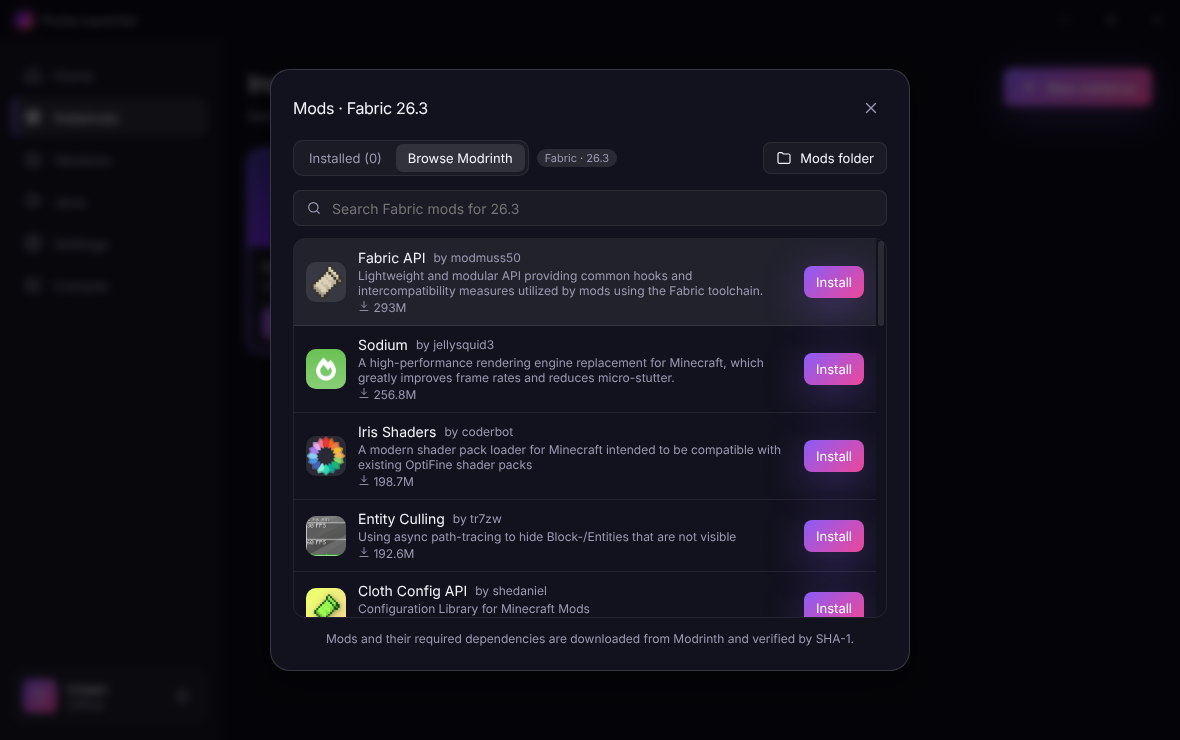
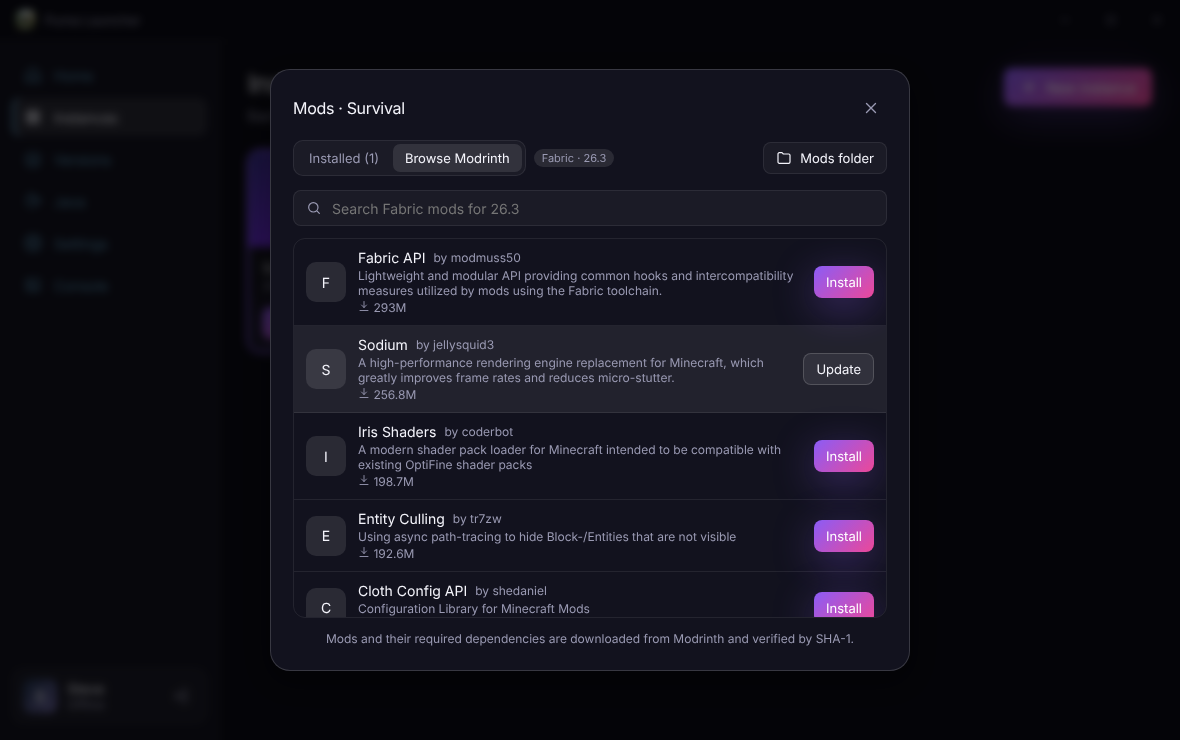
README: new screenshots, clear download steps and a getting-started guide
- Leads with a Download section: one link to the latest release and a
  table of which file to pick for each computer (with how to tell an
  Apple-chip Mac from an Intel one).
- "From download to playing": five short steps covering install
  (including the SmartScreen / Gatekeeper / Linux steps), signing in,
  creating an instance, the first launch and adding mods.
- New screenshots of the redesigned UI: welcome, home (dark, light and
  Italian), new instance, mods and Java.
- Developer material (building, publishing a release, project layout,
  adding text) moves below the user-facing sections; the release steps
  now mention bumping package.json's version, which is part of the
  installer file names.

Claude-Session: https://claude.ai/code/session_01DtT8h4zo1iGH8dAZUAaLin

diff --git a/README.md b/README.md
@@ -1,15 +1,83 @@
 # Puma Launcher
 
-A modern, open-source Minecraft: Java Edition launcher built with Electron, React and TypeScript.
-It is modelled on the most active open-source launchers, checked in October 2026:
+A modern, open-source Minecraft: Java Edition launcher for Windows, macOS and Linux. It installs any Minecraft
+version, with or without Fabric, Quilt, Forge or NeoForge, downloads the right Java for you and installs mods from
+Modrinth. Available in English and Italian.
+
+![Puma Launcher home screen](docs/screenshots/home.png)
+
+## Download
+
+**[Download the latest version](https://github.com/txtaan/Puma-Launcher-Minecraft/releases/latest)**: open the page,
+scroll down to **Assets** and pick the file for your computer.
+
+| Your computer | File to download |
+| --- | --- |
+| Windows 10 or 11 | `PumaLauncher-<version>-windows-x64-setup.exe` |
+| Mac with an Apple chip (M1 or newer) | `PumaLauncher-<version>-macos-arm64.dmg` |
+| Mac with an Intel chip | `PumaLauncher-<version>-macos-x64.dmg` |
+| Linux | `PumaLauncher-<version>-linux-x86_64.AppImage` (any distribution) or `PumaLauncher-<version>-linux-amd64.deb` (Debian, Ubuntu) |
+
+Not sure which Mac you have? Open the Apple menu → **About This Mac**: "Chip: Apple M…" means an Apple chip,
+"Processor: … Intel" means Intel.
+
+You don't need to install Java or Minecraft separately: the launcher downloads both.
+
+## From download to playing
+
+1. **Install the launcher.**
+   - **Windows:** run the `.exe` and follow the installer. If SmartScreen says "Windows protected your PC", click
+     **More info → Run anyway** (the launcher isn't code-signed yet).
+   - **macOS:** open the `.dmg` and drag **Puma Launcher** into **Applications**. If macOS says it can't verify the
+     app the first time you open it, go to **System Settings → Privacy & Security** and click **Open Anyway**.
+   - **Linux:** make the AppImage executable with `chmod +x PumaLauncher-*.AppImage` and run it, or install the
+     `.deb` with `sudo apt install ./PumaLauncher-*.deb`.
+2. **Sign in.** Click **Play offline** and type a player name (3–16 letters, numbers or underscores) to start right
+   away. You can also use a **Microsoft** account (it needs a one-time setup, see
+   [Microsoft login setup](#microsoft-login-setup)) or an **Ely.by** / **LittleSkin** account.
+3. **Create an instance.** An instance is one Minecraft installation with its own worlds and mods. On the home
+   screen click **Create**. The latest Minecraft version is already selected: give it a name, pick a mod loader
+   such as **Fabric** if you want mods, and click **Create**. The right Java version starts downloading by itself.
+4. **Press Play.** The first launch downloads the game (a few minutes; progress shows in the bottom-right corner).
+   After that the game starts in seconds.
+5. **Add mods (optional).** Go to **Instances**, click the puzzle-piece icon on your instance, open
+   **Browse Modrinth** and click **Install**. Required mods are installed with it. Mods need an instance with a mod
+   loader (Fabric, Quilt, Forge or NeoForge).
+
+You can switch between the light and dark theme, and between English and Italian, in **Settings → Appearance**.
+
+## Screenshots
+
+| Welcome | Light theme | In Italian |
+| --- | --- | --- |
+| ![Welcome screen](docs/screenshots/welcome.png) | ![Home screen, light theme](docs/screenshots/home-light.png) | ![Home screen in Italian](docs/screenshots/home-italian.png) |
+
+| New instance | Mods | Java |
+| --- | --- | --- |
+| ![New instance](docs/screenshots/new-instance.png) | ![Mods](docs/screenshots/mods.png) | ![Java](docs/screenshots/java.png) |
+
+## Features
+
+- Login screen: Microsoft, offline, or Ely.by / LittleSkin / custom server, plus saved accounts to switch between
+- Home screen with a jungle-scene hero (moonlit or daylight, following the theme), latest release/snapshot cards and a large **Play** button
+- Instances: create with any version and mod loader; edit version, loader, Java, memory, JVM args and resolution
+- Mods: Modrinth browser with dependency resolution, plus installed-mod list with enable, disable and delete
+- Versions browser: releases, snapshots, beta and alpha, with search and "installed" badges
+- Java manager: one-click Mojang and Temurin runtimes plus the Java installations found on this PC
+- Download manager: parallel downloads with SHA-1/SHA-256 checks, retries and live progress
+- Game console showing the game log (log4j XML converted to readable lines), with errors highlighted
+- Light and dark themes, or follow the system setting (**Settings → Appearance**); dark is the default
+- English and Italian: follows your system language, or pick one in **Settings → Appearance**
+
+## How it works
+
+Puma Launcher is modelled on the most active open-source launchers, checked in October 2026:
 
 | Project | Activity in 2026 | Latest release | What we took from it |
 | --- | --- | --- | --- |
 | **Prism Launcher** (most active) | ~1,550 commits, 52 contributors | 11.1.1 | Instance model, mod loaders through Prism's metadata server, ForgeWrapper for modern Forge/NeoForge, Temurin Java auto-install, mod management |
 | **HMCL** | ~900 commits, 37 contributors | 3.17.0 | One-click Mojang Java runtimes, authlib-injector accounts, Modrinth downloads |
 | ElyPrism / Fjord / Freesm | Prism forks that track upstream | 11.1.1-based | Third-party login servers (Ely.by, custom authlib-injector servers) |
-
-![Home screen](docs/screenshots/home.png)
 
 | Feature | Comes from | How it works here |
 | --- | --- | --- |
@@ -23,22 +91,6 @@ It is modelled on the most active open-source launchers, checked in October 2026
 
 No code was copied from HMCL or Prism Launcher. The launcher uses their public metadata services and the
 ForgeWrapper and authlib-injector jars at runtime. It is licensed GPL-3.0-or-later, the same licence as both projects.
-
-## Features
-
-- Login screen: Microsoft, offline, or Ely.by / LittleSkin / custom server, plus saved accounts to switch between
-- Home screen with a jungle-scene hero (moonlit or daylight, following the theme), latest release/snapshot cards and a large **Play** button
-- Instances: create with any version and mod loader; edit version, loader, Java, memory, JVM args and resolution
-- Mods: Modrinth browser with dependency resolution, plus installed-mod list with enable, disable and delete
-- Versions browser: releases, snapshots, beta and alpha, with search and "installed" badges
-- Java manager: one-click Mojang and Temurin runtimes plus the Java installations found on this PC
-- Download manager: parallel downloads with SHA-1/SHA-256 checks, retries and live progress
-- Game console showing the game log (log4j XML converted to readable lines), with errors highlighted
-- Light and dark themes, or follow the system setting (**Settings → Appearance**); dark is the default
-
-| New instance | Mods | Java |
-| --- | --- | --- |
-| ![New instance](docs/screenshots/new-instance.png) | ![Mods](docs/screenshots/mods.png) | ![Java](docs/screenshots/java.png) |
 
 ### Tested
 
@@ -62,52 +114,7 @@ on a virtual display. The game reached the title screen and loaded into a new si
 | macOS Apple Silicon (M1–M4) | Minecraft 1.19 and newer run natively with Mojang's ARM Java (17, 21, 25). Older versions use LWJGL 2 without ARM builds and are not supported yet. |
 | Linux x64 / ARM64 | Tested on x64. ARM64 gets Java from Eclipse Temurin. |
 
-### Download the installers
-
-GitHub Actions builds every installer automatically (`.github/workflows/build.yml`):
-
-- **Any push:** open the **Actions** tab, pick the latest "Build installers" run, and download the
-  `PumaLauncher-Windows`, `PumaLauncher-macOS` or `PumaLauncher-Linux` artifact at the bottom of the page.
-- **A release:** in the **Actions** tab, open "Build installers", click **Run workflow** and enter a version such as
-  `v0.3.0`; or push a version tag (`git tag v0.3.0 && git push origin v0.3.0`). The installers are attached to a new
-  GitHub Release.
-
-| File | For |
-| --- | --- |
-| `PumaLauncher-<version>-windows-x64-setup.exe` | Windows 10/11 |
-| `PumaLauncher-<version>-macos-arm64.dmg` | Macs with Apple chips (M1–M4) |
-| `PumaLauncher-<version>-macos-x64.dmg` | Macs with Intel chips |
-| `PumaLauncher-<version>-linux-x86_64.AppImage` / `-amd64.deb` | Linux |
-
-You can also build locally with `npm run dist` on each OS: `.exe` (NSIS) on Windows, `.dmg` on macOS, AppImage/`.deb`
-on Linux. Without code signing, Windows SmartScreen and macOS Gatekeeper show a warning the first time
-(on macOS: right-click the app, then **Open**). Signing needs a code-signing certificate on Windows and an Apple
-Developer ID on macOS.
-
-## Getting started
-
-```bash
-npm install
-npm run dev        # start with hot reload
-npm run build      # production build into out/
-npm run dist       # package installers into release/ (electron-builder)
-npm run typecheck
-```
-
-Requires Node.js 20 or newer.
-
-### Where data is stored
-
-| OS | Folder |
-| --- | --- |
-| Windows | `%APPDATA%\puma-launcher` |
-| macOS | `~/Library/Application Support/puma-launcher` |
-| Linux | `~/.config/puma-launcher` |
-
-To use another folder, set the `PUMA_HOME` environment variable. Data from older versions (the `txtaan-launcher` folder, from before the rename) is moved to the new folder automatically on first start. The layout follows `.minecraft`
-(`versions/`, `libraries/`, `assets/`), plus `runtime/` for downloaded Java and `instances/` for instances.
-
-### Microsoft login setup
+## Microsoft login setup
 
 Microsoft requires every launcher to use its own Azure application:
 
@@ -121,6 +128,44 @@ Microsoft requires every launcher to use its own Azure application:
    at the Minecraft step with HTTP 403.
 
 Offline mode works without any of this.
+
+## Where your data is stored
+
+| OS | Folder |
+| --- | --- |
+| Windows | `%APPDATA%\puma-launcher` |
+| macOS | `~/Library/Application Support/puma-launcher` |
+| Linux | `~/.config/puma-launcher` |
+
+To use another folder, set the `PUMA_HOME` environment variable. Data from older versions (the `txtaan-launcher` folder, from before the rename) is moved to the new folder automatically on first start. The layout follows `.minecraft`
+(`versions/`, `libraries/`, `assets/`), plus `runtime/` for downloaded Java and `instances/` for instances.
+
+## Building from source
+
+```bash
+npm install
+npm run dev        # start with hot reload
+npm run build      # production build into out/
+npm run dist       # package installers into release/ (electron-builder)
+npm run typecheck
+```
+
+Requires Node.js 20 or newer.
+
+### Publishing a release
+
+GitHub Actions builds every installer automatically (`.github/workflows/build.yml`):
+
+- **Any push:** open the **Actions** tab, pick the latest "Build installers" run, and download the
+  `PumaLauncher-Windows`, `PumaLauncher-macOS` or `PumaLauncher-Linux` artifact at the bottom of the page.
+- **A release:** bump `version` in `package.json` (it is part of the file names), then in the **Actions** tab open
+  "Build installers", click **Run workflow** and enter the version, such as `v0.3.0`; or push a version tag
+  (`git tag v0.3.0 && git push origin v0.3.0`). The installers are attached to a new GitHub Release, which is what
+  the [Download](#download) link points to.
+
+You can also build installers locally with `npm run dist` on each OS: `.exe` (NSIS) on Windows, `.dmg` on macOS,
+AppImage/`.deb` on Linux. Without code signing, Windows SmartScreen and macOS Gatekeeper show a warning the first
+time. Signing needs a code-signing certificate on Windows and an Apple Developer ID on macOS.
 
 ## Project layout
 
@@ -138,12 +183,14 @@ src/
       auth.ts      Microsoft (device code), offline and authlib-injector accounts
       instances.ts instance storage
       http.ts      downloads with SHA-1 checks, retries and concurrency
+      i18n.ts      language for main-process text (progress, errors, console lines)
   preload/         typed, sandboxed IPC bridge (window.launcher)
   renderer/        React UI
     src/styles/theme.css  all colours, gradients and radii for the dark and light themes (edit this file to re-theme)
     src/styles/app.css    layout and components
     src/pages/            Login, Home, Instances, Versions, Java, Settings
   shared/types.ts  types shared by all three layers
+  shared/i18n/     English (en.ts, the source of every message) and Italian (it.ts) text
 ```
 
 ### Browser preview (for UI work)
@@ -164,6 +211,12 @@ and `--brand-gradient` for buttons. The jungle scenes on the welcome and home sc
 `src/renderer/src/assets`; the home hero shows the night art in the dark theme and the day art in the light one.
 `:root` holds the dark theme and `:root[data-theme='light']` overrides its colours for the light theme, so a new
 colour token needs a value in both.
+
+### Adding or changing text
+
+All text lives in `src/shared/i18n`. Add the English message to `en.ts`, then the same key to `it.ts`: the
+typecheck fails until every language has it. In the UI use `t('key')` from `useStore()`; in the main process
+use `tr('key')`. `{name}` placeholders are filled from the second argument.
 
 ## License
 
